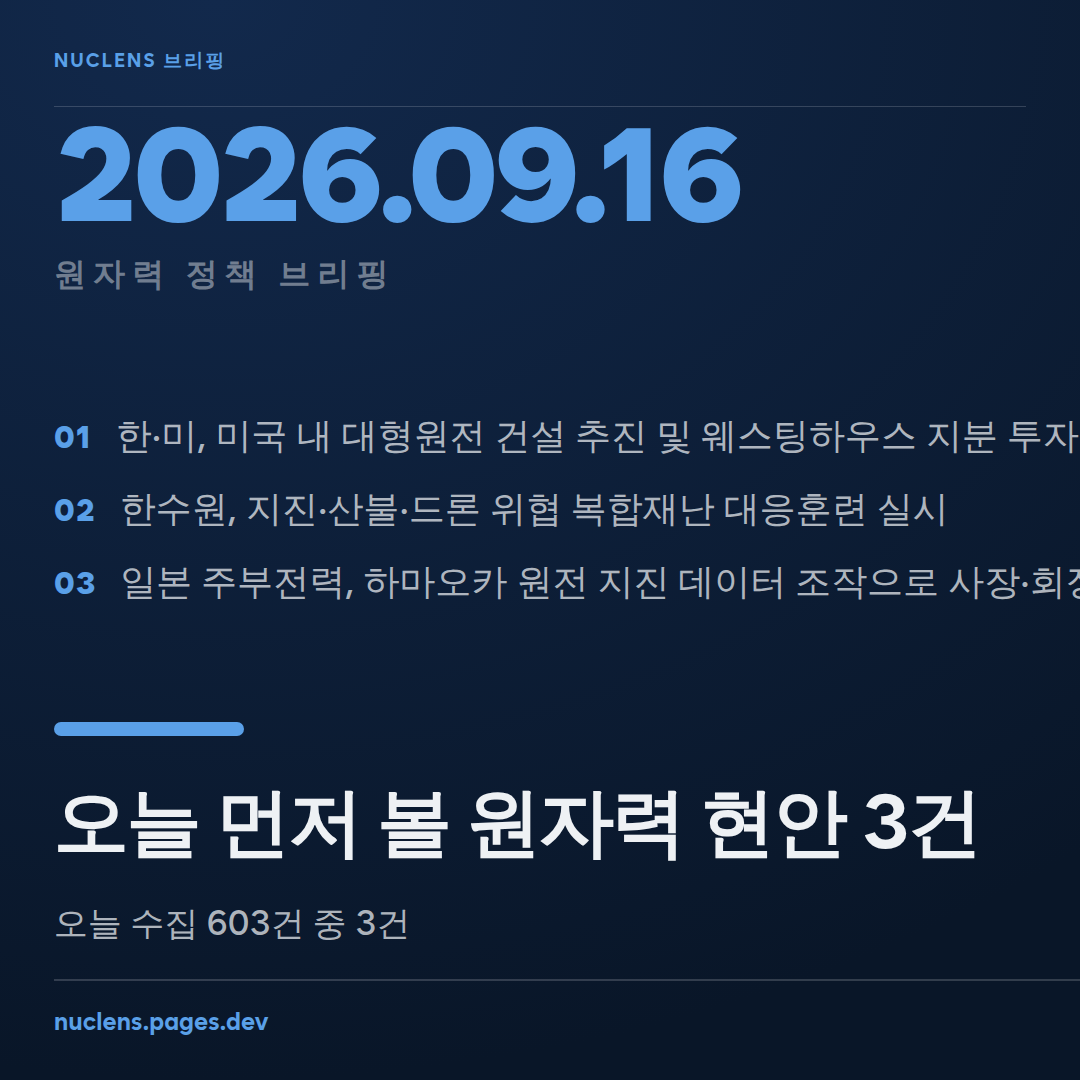
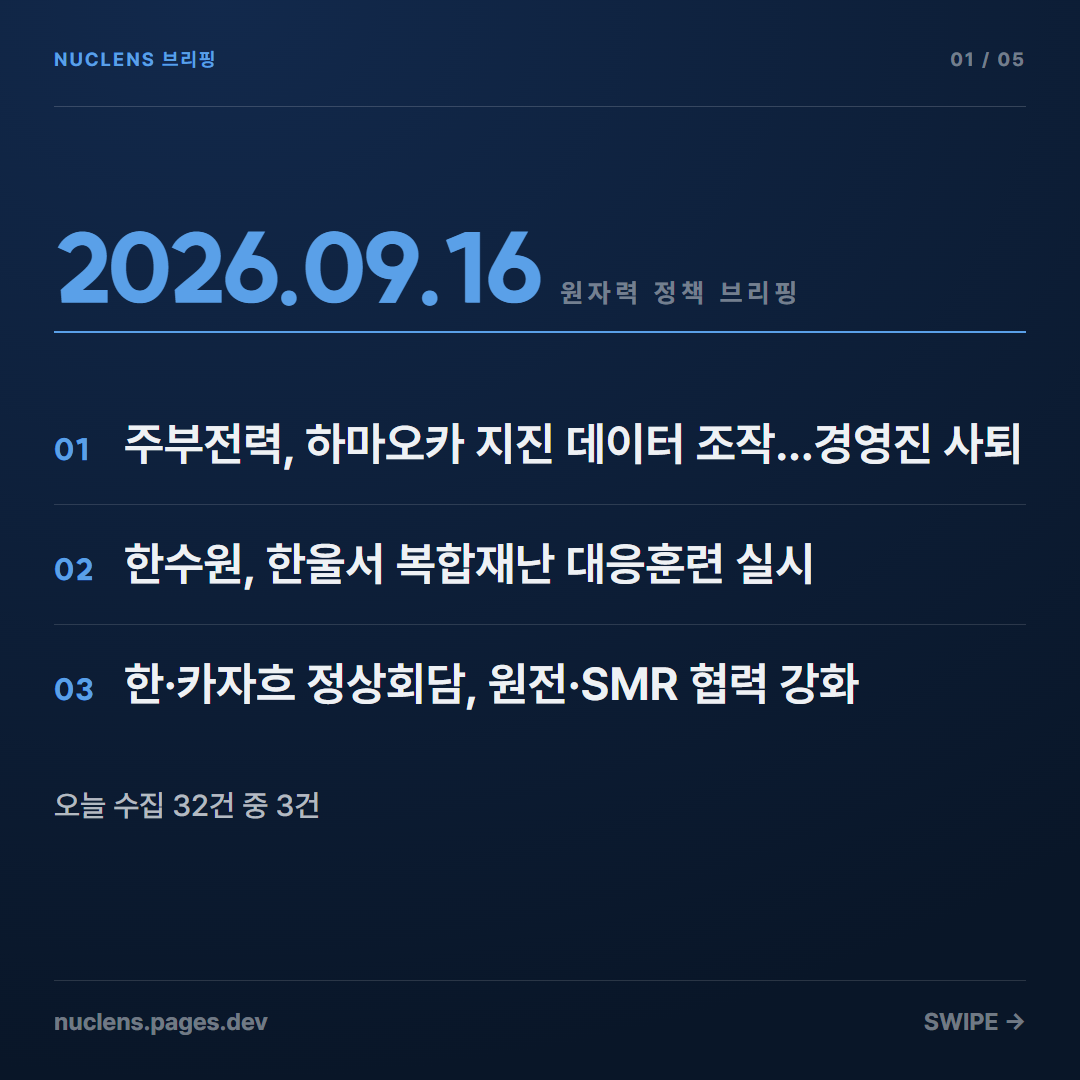
fix(cards): 카드 분류를 사이트 칩(khnp_domain)에 맞추고 09-16 카드를 새 판형으로 교체
카드는 `topics` 규칙값을, 사이트 칩은 `khnp_domain`(LLM 분류)을 쓰고 있었다.
09-16 '한수원 복합재난 대응훈련'이 사이트에선 안전성, 카드에선 규제·인허가로
나갔다 — 같은 화면에 붙어 있는 두 값이 어긋난다. topic_label 이 khnp_domain 을
먼저 본다. 비어 있으면(분류 대기) 종전대로 topics 첫 값.

09-16 사이트 카드를 디자인 검토 반영본으로 다시 만들었다. 소재는 지금 사이트가
정한 상위 3건 그대로다 — 텔레그램에 나갔던 09-16 조합(한·미/한수원/주부전력)과
다른데, 그 뒤 기사가 병합되며 순위가 바뀌었다. 사이트의 카드 띠는 그 아래 목록과
같은 순서를 보여야 한다. 카피는 손으로 썼다(아침 브리핑이 쓸 무료 쿼터를 지금
당겨 쓰지 않는다).

diff --git a/make_cards.py b/make_cards.py
@@ -167,11 +167,17 @@ def plausible_event_date(raw: str, brief_date: str) -> str:
 
 
 def topic_label(meta: dict) -> str:
-    """기사 분류 표시명. 파이프라인이 매긴 topics 의 첫 값을 사이트와 같은 이름으로.
+    """기사 분류 표시명 — **사이트 칩과 같은 값**을 쓴다.
 
-    topics 는 web/build_data.py 의 _TOPIC_RULES 순서로 담기므로 첫 값이 가장
-    구체적인 축이다(예: restart_lto → regulation → power_market).
+    1순위는 khnp_domain(현안 분류를 LLM 이 매긴 값, 사이트가 칩으로 보여 주는 그것).
+    카드가 topics 규칙값을 쓰던 동안 사이트 칩은 '안전성'인데 카드는 '규제·인허가'로
+    나갔다(09-16 한수원 복합재난 훈련 실측). 카드는 사이트를 따라간다.
+    khnp_domain 이 비면(분류 대기) topics 의 첫 값으로 물러난다 — topics 는
+    web/build_data.py 의 _TOPIC_RULES 순서라 첫 값이 가장 구체적인 축이다.
     """
+    domain = str(meta.get("khnp_domain") or "").strip()
+    if domain:
+        return domain
     for topic in meta.get("topics") or []:
         if topic in TOPIC_LABELS:
             return TOPIC_LABELS[topic]
@@ -721,6 +727,9 @@ def _self_check() -> None:
     # 분류는 LLM 이 아니라 코드가 붙인다
     assert topic_label({"topics": ["restart_lto", "regulation"]}) == "계속운전·재가동"
     assert topic_label({"topics": ["없는토픽"]}) == "원자력 정책"
+    # 사이트 칩(khnp_domain)이 있으면 그게 이긴다 — 카드와 사이트가 어긋나면 안 된다
+    assert topic_label({"khnp_domain": "안전성", "topics": ["regulation"]}) == "안전성"
+    assert topic_label({"khnp_domain": "", "topics": ["regulation"]}) == "규제·인허가"
 
     # 사이트 순위를 그대로 — 재정렬 없음, 링크 없는 이슈만 건너뜀
     rows = [
